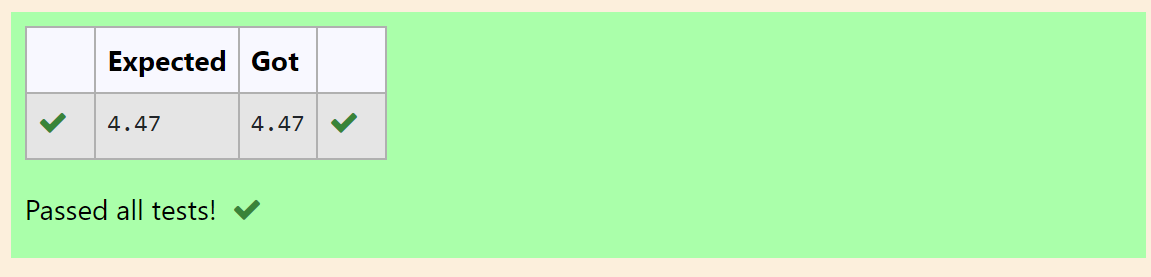
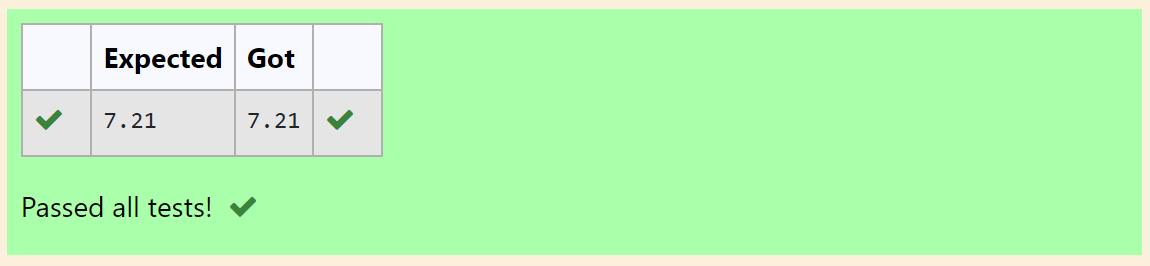
update output

Changed region(s): [[0.0, 0.0301, 1.0, 0.9624]]

diff --git a/README.md b/README.md
@@ -16,9 +16,9 @@ End the program
 ### PROGRAM:
 ```
 import math
-l1=[10,6]
-l2=[4,2]
-value=math.sqrt(((l1[0]-l2[0])**2)-((l1[1]-l2[1])**2))
+x=[10,4]
+y=[6,2]
+value=math.sqrt(((x[0]-x[1])**2)+((y[0]-y[1])**2))
 print("{:.2f}".format(value))
 ```
   
